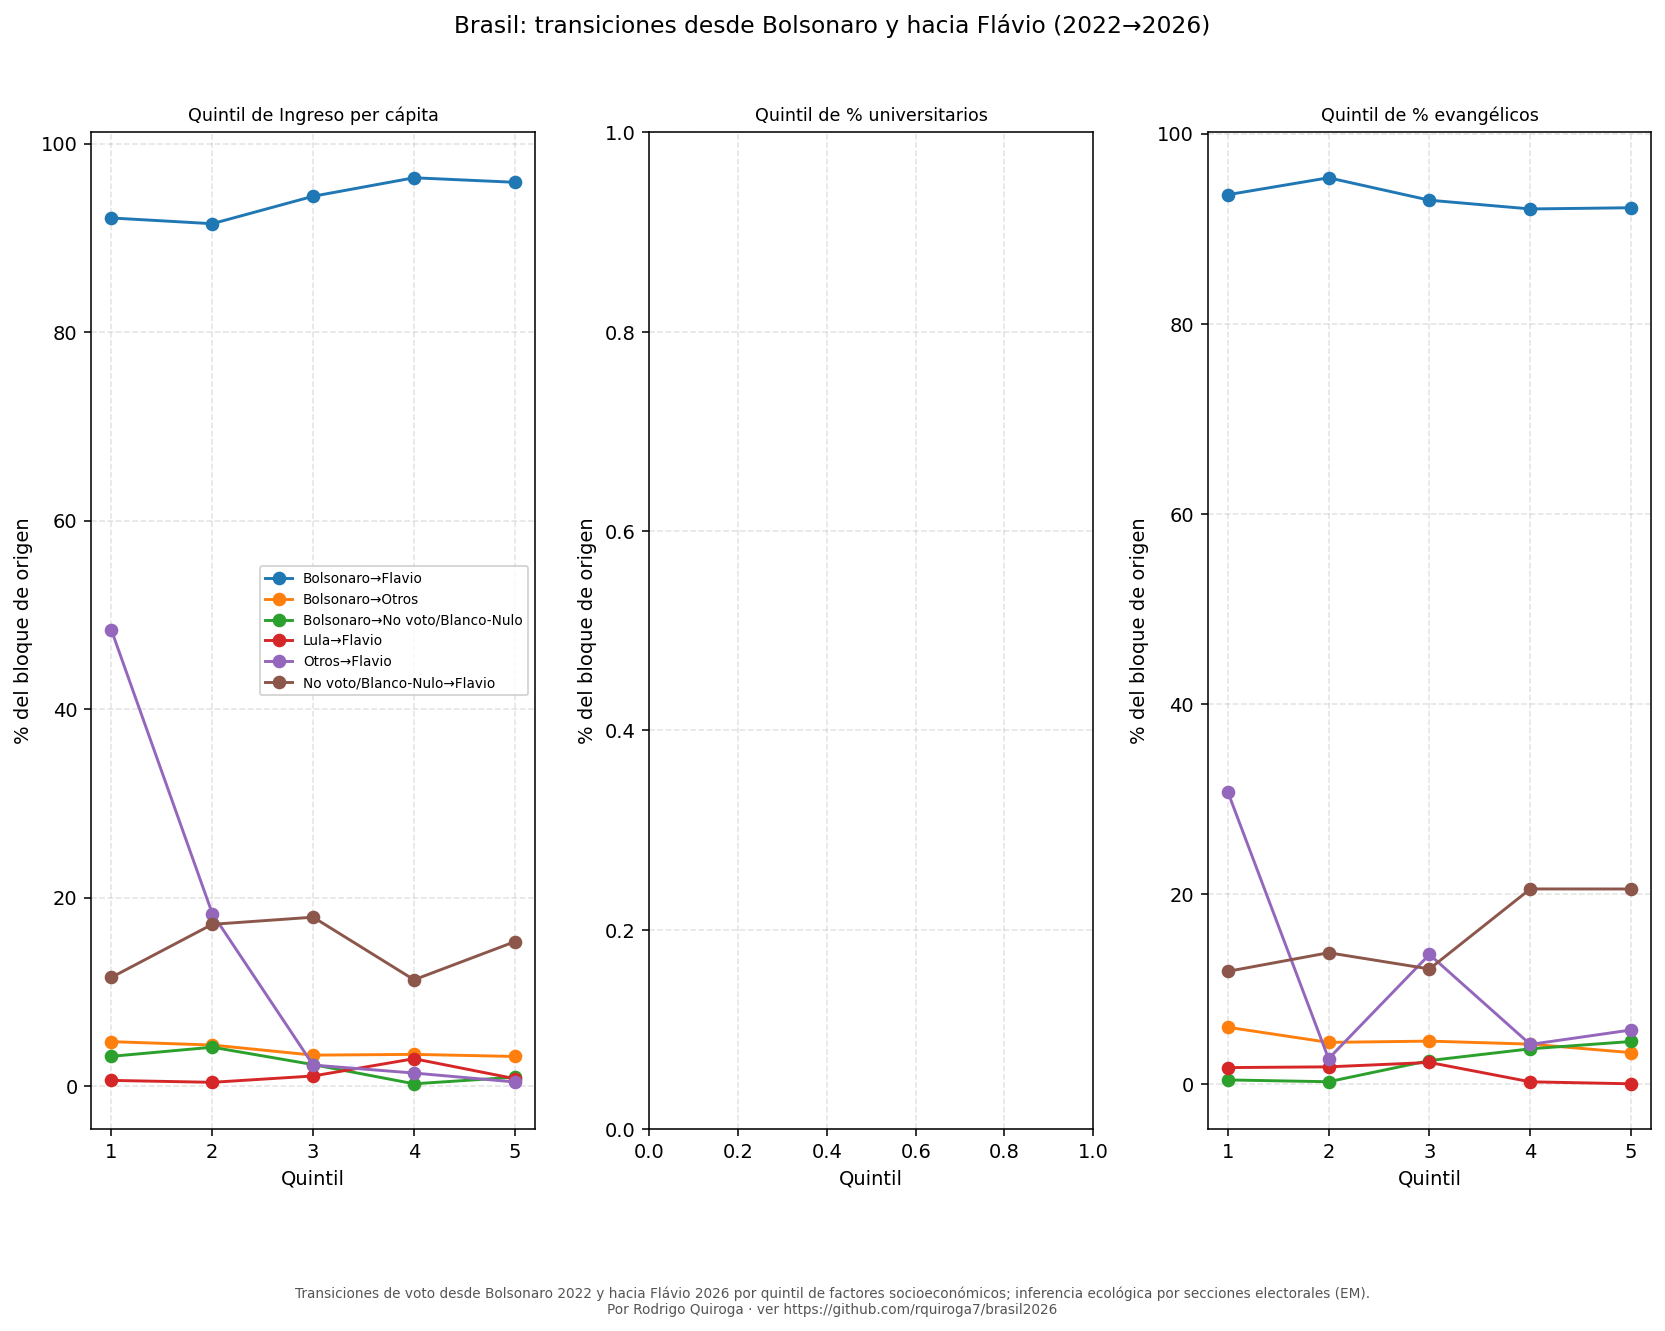
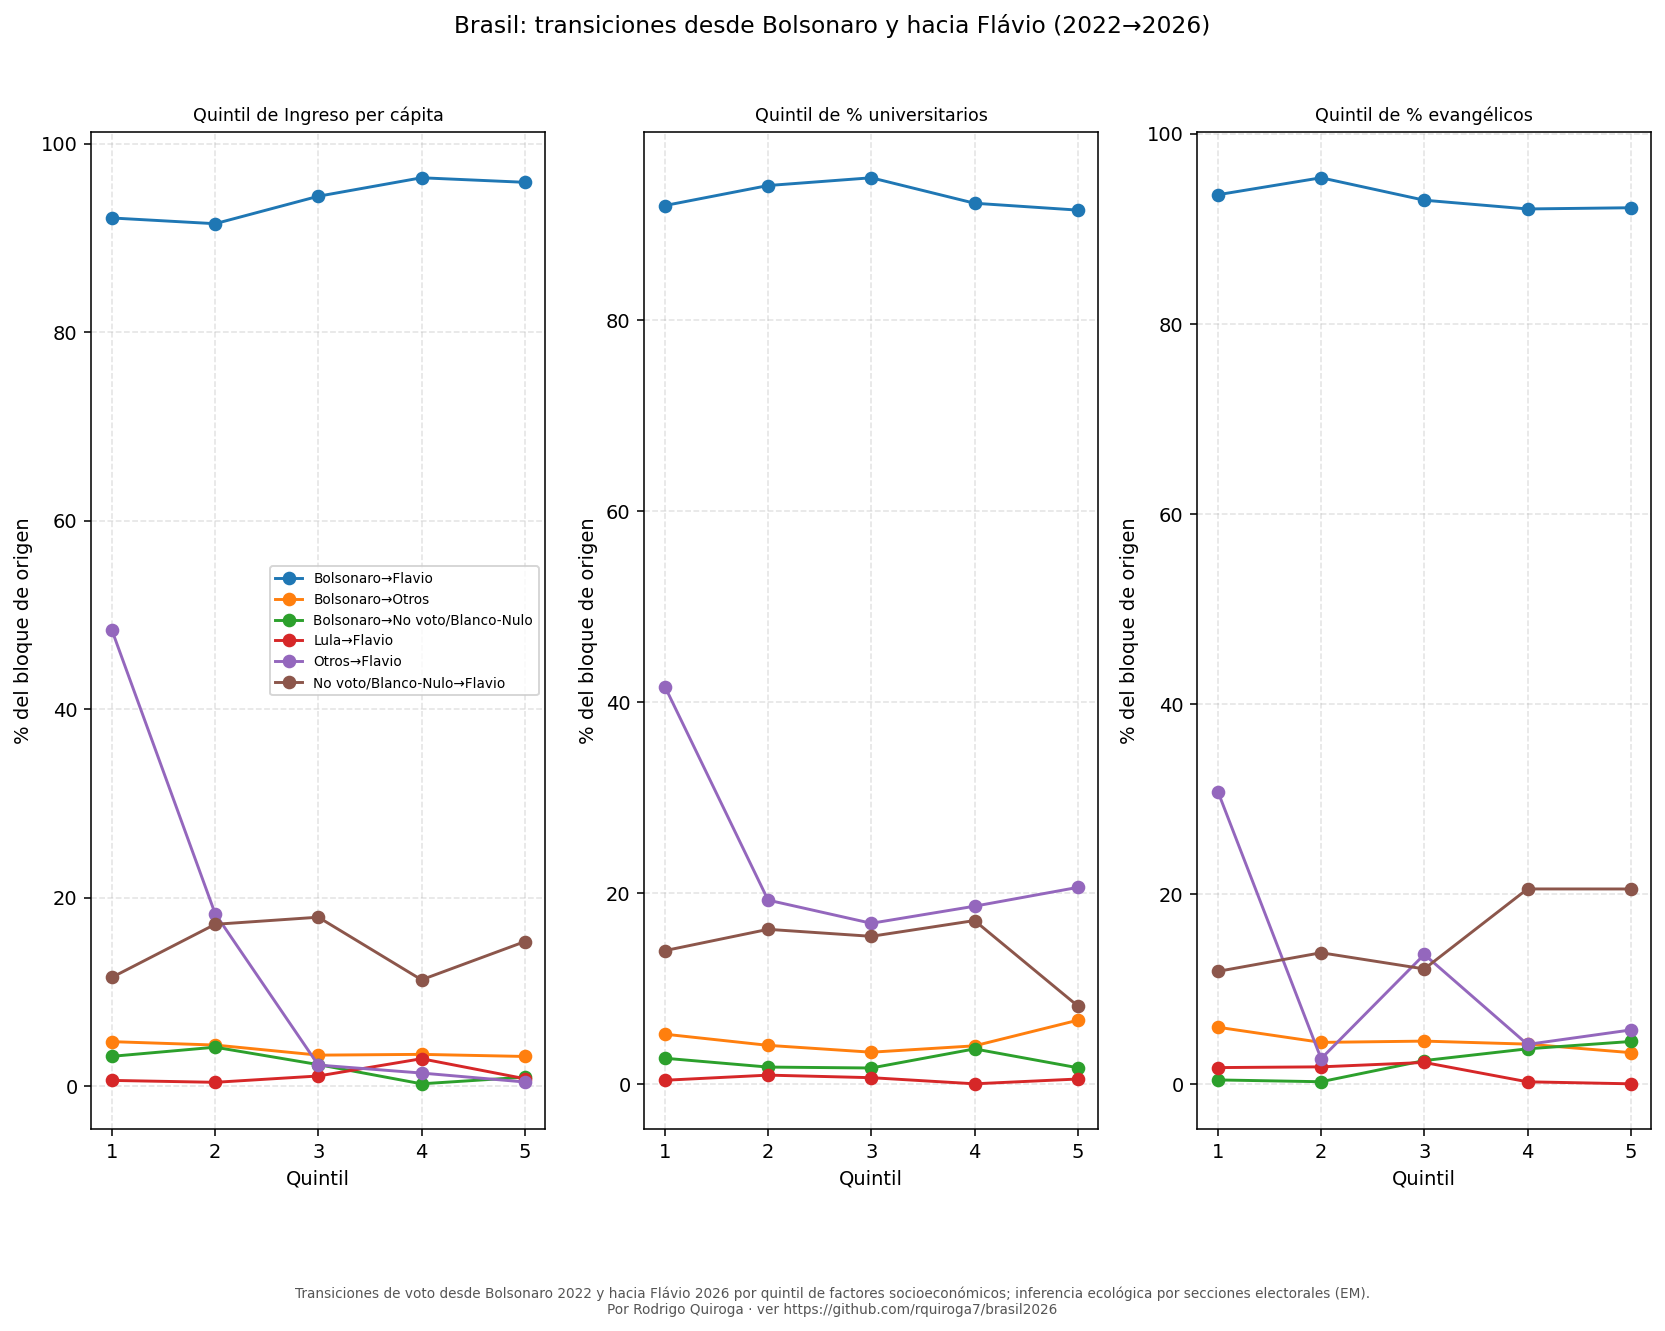
Socio: fix factor universitarios (panel vacio) y versiones absolutas (millones) socio_ei_abs_*

diff --git a/inferencia_ecologica_socio.py b/inferencia_ecologica_socio.py
@@ -151,11 +151,14 @@ def ei_por_quintiles(m_sec, var, q=5):
     for g, sub in m.groupby("q"):
         if len(sub) < 500:
             continue
-        th = ie.em_transicion(sub[cols_o].to_numpy(float), sub[cols_d].to_numpy(float))
+        X = sub[cols_o].to_numpy(float)
+        th = ie.em_transicion(X, sub[cols_d].to_numpy(float))
+        N_o = X.sum(0)  # personas por bloque de origen en este quintil
         for j, oj in enumerate(lab_o):
             for kk, dk in enumerate(lab_d):
                 filas.append({"factor": var, "quintil": int(g), "origen": oj,
-                              "destino": dk, "p": th[j, kk], "n": len(sub)})
+                              "destino": dk, "p": th[j, kk],
+                              "votos": th[j, kk] * N_o[j], "n": len(sub)})
     return pd.DataFrame(filas)
 
 
@@ -219,7 +222,7 @@ def graficar_panel(muni, corr, reg_sin, reg_con):
     plt.close(fig)
 
 
-def graficar_grupo(quints, claves, archivo, titulo, meto):
+def graficar_grupo(quints, claves, archivo, titulo, meto, absoluto=False):
     q = quints
     fig, axes = plt.subplots(1, 3, figsize=(12, 9))
     for ax, var in zip(axes, ["ingreso", "univ", "religion"]):
@@ -228,12 +231,14 @@ def graficar_grupo(quints, claves, archivo, titulo, meto):
             s = sub[(sub["origen"] == oj) & (sub["destino"] == dk)].sort_values("quintil")
             if s.empty:
                 continue
-            ax.plot(s["quintil"] + 1, s["p"] * 100, "o-", label=f"{oj}→{dk}")
+            y = s["votos"] / 1e6 if absoluto else s["p"] * 100
+            ax.plot(s["quintil"] + 1, y, "o-", label=f"{oj}→{dk}")
         ax.set_title(f"Quintil de {NOMBRES[var]}", fontsize=9)
         ax.set_xlabel("Quintil")
-        ax.set_ylabel("% del bloque de origen")
+        ax.set_ylabel("Millones de votos/personas" if absoluto else "% del bloque de origen")
         ax.grid(alpha=0.35, ls="--")
-    fig.suptitle(f"Brasil: {titulo} (2022→2026)", fontsize=12)
+    suf = " — millones de votos/personas" if absoluto else ""
+    fig.suptitle(f"Brasil: {titulo} (2022→2026){suf}", fontsize=12)
     axes[0].legend(fontsize=7)
     fig.tight_layout(rect=[0, 0.03, 1, 0.96])
     ep.mpl(fig, meto)
@@ -340,19 +345,23 @@ def main():
     socio, _ = cargar_socio()
     m_sec = m_sec.merge(socio, on="ibge", how="left")
 
-    partes = [ei_por_quintiles(m_sec, v) for v in ["ingreso", "bf", "religion"]]
+    partes = [ei_por_quintiles(m_sec, v) for v in ["ingreso", "univ", "religion"]]
     quints = pd.concat(partes, ignore_index=True)
     quints.to_csv(os.path.join(OUT, "socio_ei_quintiles.csv"), index=False)
 
     graficar_panel(muni, corr, reg_sin, reg_con)
+    METO_LULA = ("Transiciones de voto hacia/desde Lula (2022→2026) por quintil de factores "
+                 "socioeconómicos; inferencia ecológica por secciones electorales (EM).")
+    METO_BOLSO = ("Transiciones de voto desde Bolsonaro 2022 y hacia Flávio 2026 por quintil de "
+                  "factores socioeconómicos; inferencia ecológica por secciones electorales (EM).")
     graficar_grupo(quints, CLAVES_LULA, "socio_ei_lula.png",
-                   "transiciones hacia/desde Lula",
-                   "Transiciones de voto hacia/desde Lula (2022→2026) por quintil de factores "
-                   "socioeconómicos; inferencia ecológica por secciones electorales (EM).")
+                   "transiciones hacia/desde Lula", METO_LULA)
+    graficar_grupo(quints, CLAVES_LULA, "socio_ei_abs_lula.png",
+                   "transiciones hacia/desde Lula", METO_LULA, absoluto=True)
     graficar_grupo(quints, CLAVES_BOLSO, "socio_ei_bolso_flavio.png",
-                   "transiciones desde Bolsonaro y hacia Flávio",
-                   "Transiciones de voto desde Bolsonaro 2022 y hacia Flávio 2026 por quintil de "
-                   "factores socioeconómicos; inferencia ecológica por secciones electorales (EM).")
+                   "transiciones desde Bolsonaro y hacia Flávio", METO_BOLSO)
+    graficar_grupo(quints, CLAVES_BOLSO, "socio_ei_abs_bolso_flavio.png",
+                   "transiciones desde Bolsonaro y hacia Flávio", METO_BOLSO, absoluto=True)
     open(os.path.join(OUT, "informe_socio_es.md"), "w", encoding="utf-8").write(
         reporte(muni, corr, reg_con, r2_con, n_con, quints, "es"))
     open(os.path.join(OUT, "relatorio_socio_pt.md"), "w", encoding="utf-8").write(

diff --git a/plot/informe_socio_es.md b/plot/informe_socio_es.md
@@ -31,6 +31,11 @@ Factores socioeconómicos municipales (Censo 2022) cruzados con 5570 municipios.
 | Ingreso per cápita | 3 | 0.0% | 94.4% | 2.2% |
 | Ingreso per cápita | 4 | 0.0% | 96.4% | 1.4% |
 | Ingreso per cápita | 5 | 0.0% | 95.9% | 0.4% |
+| % universitarios | 1 | 0.0% | 92.0% | 41.6% |
+| % universitarios | 2 | 0.0% | 94.1% | 19.3% |
+| % universitarios | 3 | 0.0% | 94.9% | 16.9% |
+| % universitarios | 4 | 0.0% | 92.3% | 18.6% |
+| % universitarios | 5 | 0.0% | 91.6% | 20.6% |
 | % evangélicos | 1 | 0.0% | 93.6% | 30.8% |
 | % evangélicos | 2 | 0.0% | 95.4% | 2.7% |
 | % evangélicos | 3 | 0.0% | 93.0% | 13.6% |

diff --git a/plot/relatorio_socio_pt.md b/plot/relatorio_socio_pt.md
@@ -31,6 +31,11 @@ Fatores socioeconômicos municipais (Censo 2022) cruzados com 5570 municípios. 
 | Ingreso per cápita | 3 | 0.0% | 94.4% | 2.2% |
 | Ingreso per cápita | 4 | 0.0% | 96.4% | 1.4% |
 | Ingreso per cápita | 5 | 0.0% | 95.9% | 0.4% |
+| % universitarios | 1 | 0.0% | 92.0% | 41.6% |
+| % universitarios | 2 | 0.0% | 94.1% | 19.3% |
+| % universitarios | 3 | 0.0% | 94.9% | 16.9% |
+| % universitarios | 4 | 0.0% | 92.3% | 18.6% |
+| % universitarios | 5 | 0.0% | 91.6% | 20.6% |
 | % evangélicos | 1 | 0.0% | 93.6% | 30.8% |
 | % evangélicos | 2 | 0.0% | 95.4% | 2.7% |
 | % evangélicos | 3 | 0.0% | 93.0% | 13.6% |
